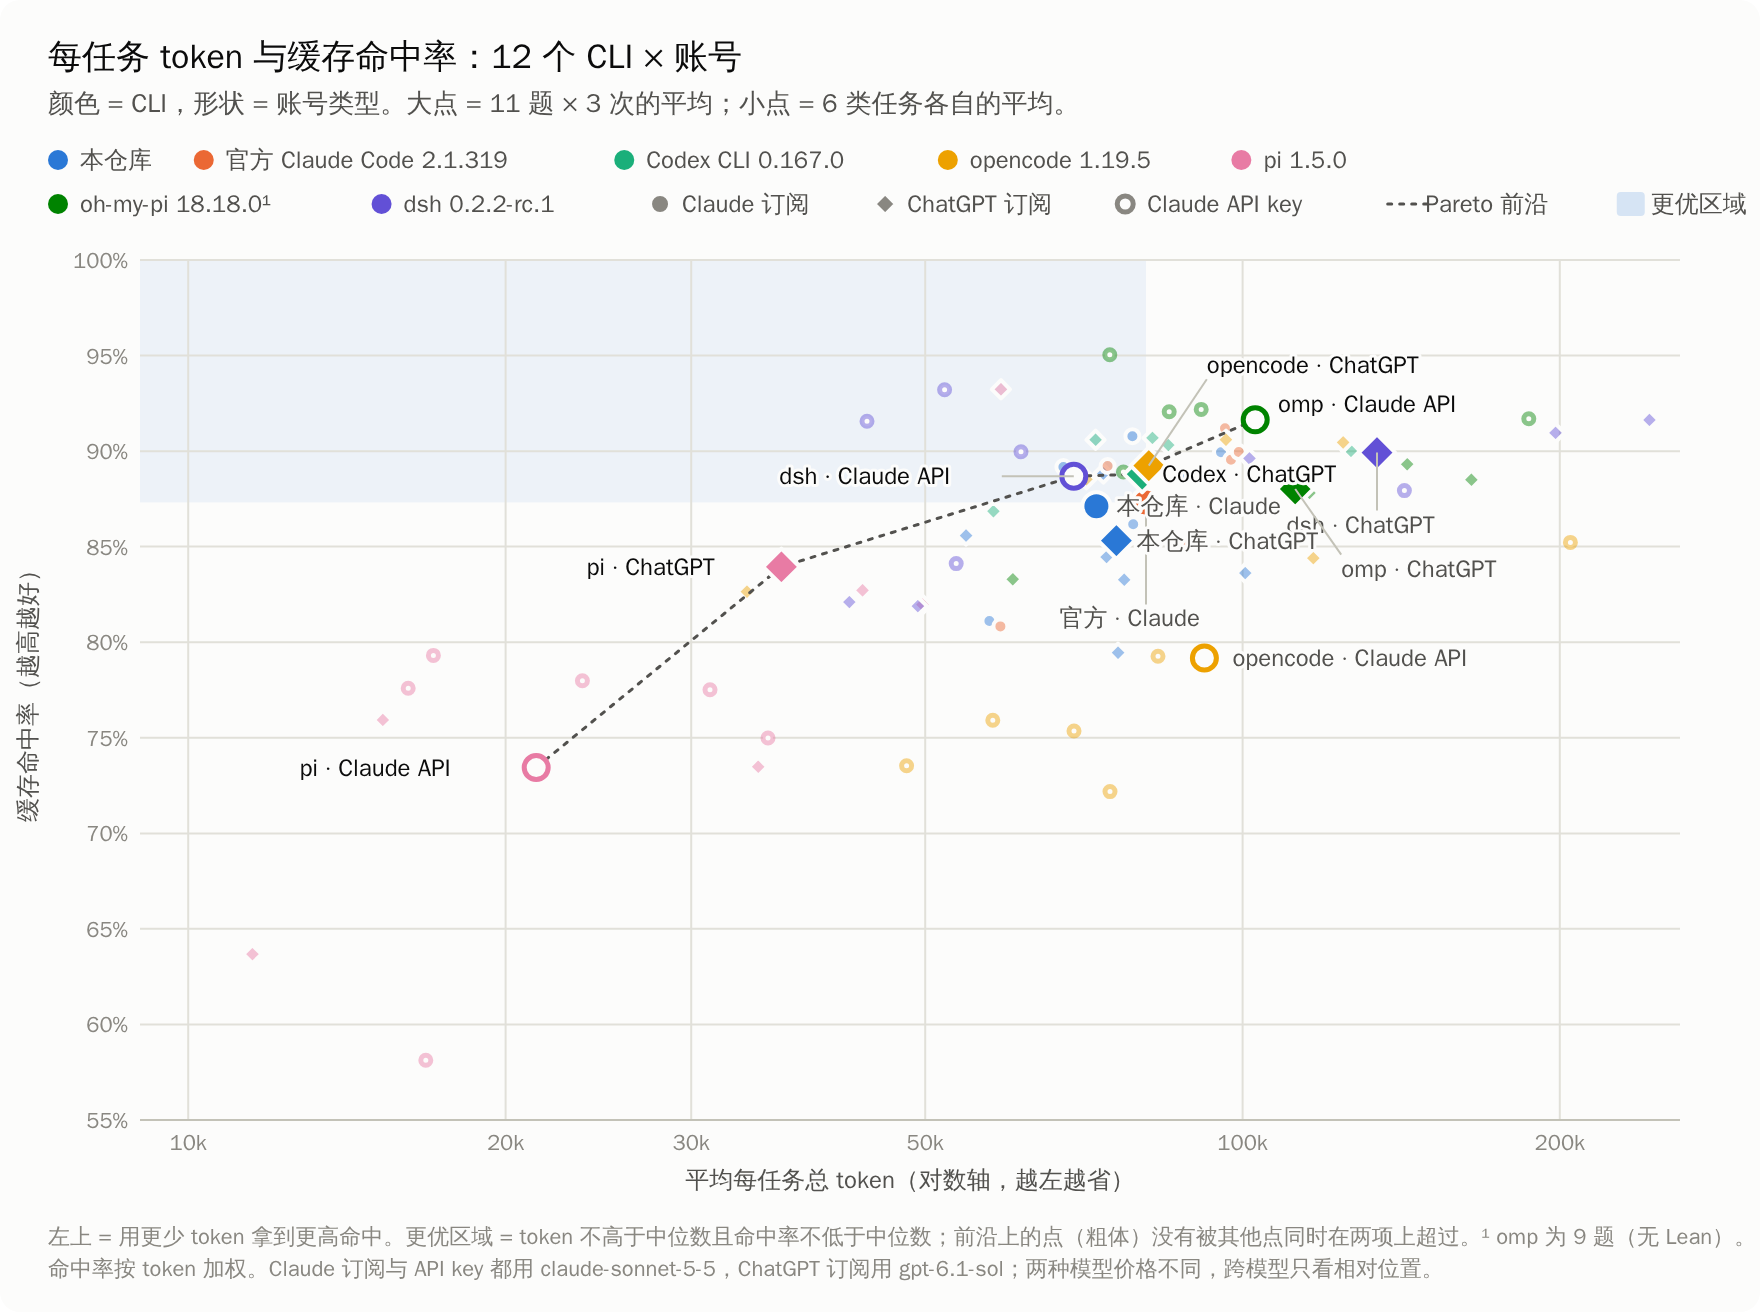
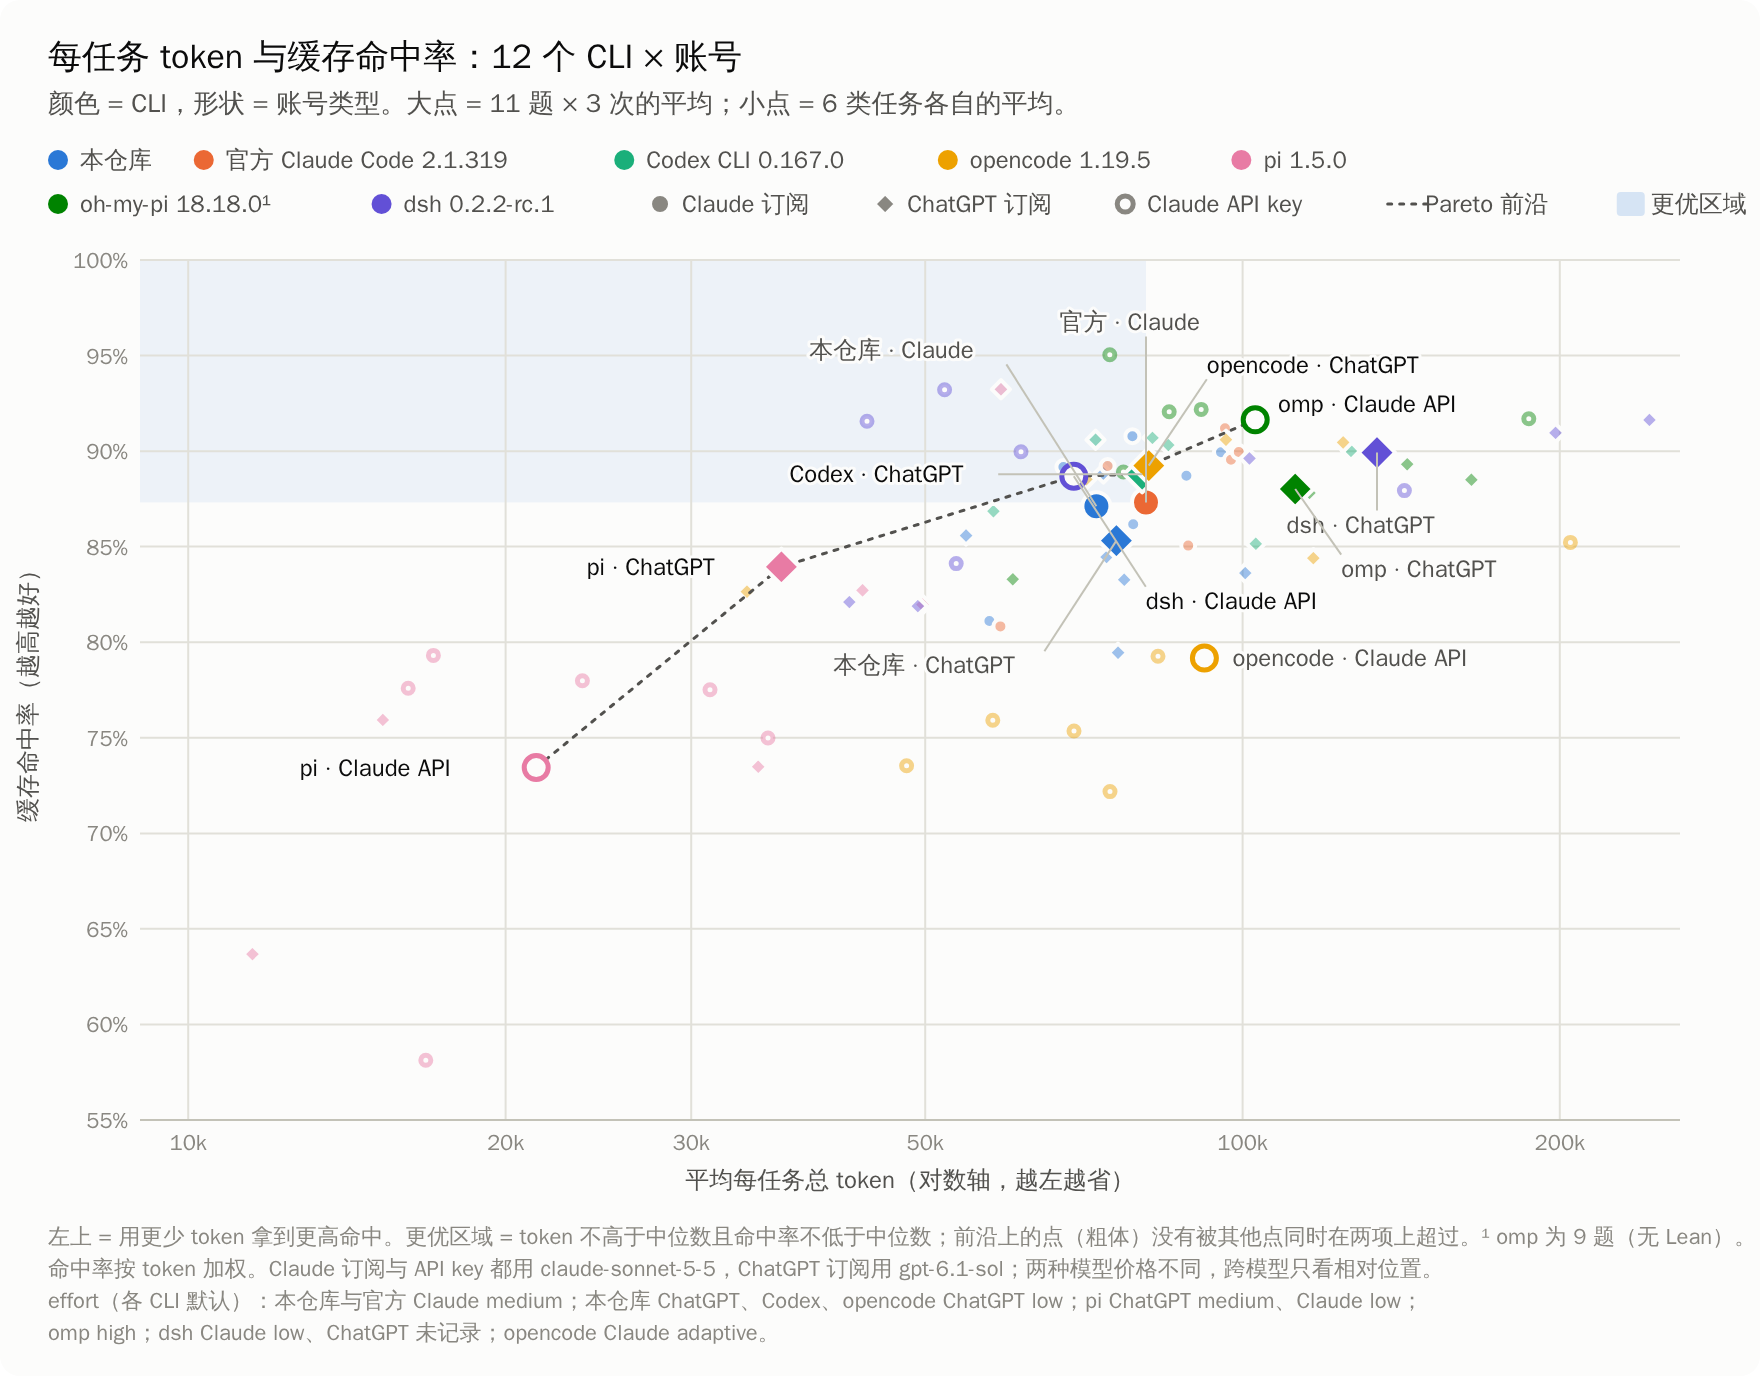
docs: add cost-per-task vs cache-hit chart with model and effort per cell

diff --git a/docs/features/cache-benchmark.md b/docs/features/cache-benchmark.md
@@ -32,16 +32,16 @@
 
 ### 对象
 
-| CLI | 版本 | 账号 / 模型 | effort |
+| CLI | 版本 | 账号 / 模型 | effort（请求实际携带） |
 | --- | --- | --- | --- |
-| 本仓库 · Claude 账号 | `dev` `453b1c6` | Claude OAuth · `claude-sonnet-5-5` | 默认 |
-| 官方 Claude Code | 2.1.319 | Claude OAuth · `claude-sonnet-5-5` | 默认 |
+| 本仓库 · Claude 账号 | `dev` `453b1c6` | Claude OAuth · `claude-sonnet-5-5` | 默认 medium |
+| 官方 Claude Code | 2.1.319 | Claude OAuth · `claude-sonnet-5-5` | 默认 medium |
 | 本仓库 · ChatGPT 账号 | `dev` `453b1c6` | ChatGPT OAuth · `gpt-6.1-sol` | 账号默认 low |
 | Codex CLI | 0.167.0 | ChatGPT OAuth · `gpt-6.1-sol` | 账号默认 low |
-| opencode | 1.19.5 | ChatGPT OAuth · `gpt-6.1-sol` | 默认 |
-| pi | 1.5.0（`@earendil-works/pi-coding-agent`） | ChatGPT OAuth · `gpt-6.1-sol` | 默认 |
+| opencode | 1.19.5 | ChatGPT OAuth · `gpt-6.1-sol` / Claude API key · `claude-sonnet-5-5` | 默认 low / adaptive |
+| pi | 1.5.0（`@earendil-works/pi-coding-agent`） | ChatGPT OAuth · `gpt-6.1-sol` / Claude API key · `claude-sonnet-5-5` | 默认 medium / low |
 | oh-my-pi（`omp`） | 18.18.0（`@oh-my-pi/pi-coding-agent`） | ChatGPT OAuth · `gpt-6.1-sol` / Claude API key · `claude-sonnet-5-5` | 默认 high |
-| dsh（DeepSeek Harness） | 0.2.2-rc.1（`@deepseek-ai/dsh`，headless） | ChatGPT OAuth · `gpt-6.1-sol` / Claude API key · `claude-sonnet-5-5` | 默认（Claude 侧 low） |
+| dsh（DeepSeek Harness） | 0.2.2-rc.1（`@deepseek-ai/dsh`，headless） | ChatGPT OAuth · `gpt-6.1-sol` / Claude API key · `claude-sonnet-5-5` | 默认（Claude 侧 low，ChatGPT 侧请求不带 effort） |
 
 pi 与 opencode 另用 Claude API key 跑了一组 `claude-sonnet-5-5`（见第 1、4–6 节）；表中未注明时 pi、opencode 均指 ChatGPT 账号。oh-my-pi 只出现在第 9 节，ssh / k8s 运维排障题见第 10 节，dsh 只出现在第 11 节。
 
@@ -102,7 +102,7 @@ pi 与 opencode 另用 Claude API key 跑了一组 `claude-sonnet-5-5`（见第 
 
 ### 0. token 与命中率总览
 
-横轴是每任务平均总 token（对数轴，越左越省），纵轴是按 token 加权的缓存命中率（越高越好），左上角最好。只看命中率会奖励把大段前缀放进缓存的做法，只看 token 又看不出缓存帮了多少，两项放在一起才能看出谁在「少用」和「多复用」上都占优。两种模型的价格表不同，所以横轴用 token，不用花费；API 等价花费见第 1 节表格。
+横轴是每任务平均总 token（对数轴，越左越省），纵轴是按 token 加权的缓存命中率（越高越好），左上角最好。只看命中率会奖励把大段前缀放进缓存的做法，只看 token 又看不出缓存帮了多少，两项放在一起才能看出谁在「少用」和「多复用」上都占优。第二张图把横轴换成 API 等价花费，把缓存读、缓存写和输出的不同价格算进去。[交互版](https://claude.ai/artifact/5c7HFWBN11ZAVcFHConfbm)可切换横轴，悬停查看每个点的明细。
 
 颜色区分 CLI，形状区分账号类型：实心圆 = Claude 订阅（OAuth），菱形 = ChatGPT 订阅（OAuth），空心圆 = Claude API key。Claude 订阅与 API key 都用 `claude-sonnet-5-5`，ChatGPT 订阅用 `gpt-6.1-sol`。每个大点 = 11 题 × 3 次；oh-my-pi 为 9 题（无 Lean），dsh ChatGPT 账号 32 次（1 次 WebSocket 断线未计入）。
 
@@ -112,6 +112,32 @@ pi 与 opencode 另用 Claude API key 跑了一组 `claude-sonnet-5-5`（见第 
 - 前沿上的 6 个点：pi（Claude API）21k / 73.4%、pi（ChatGPT）37k / 84.0%、dsh（Claude API）69k / 88.7%、Codex 80k / 88.8%、opencode（ChatGPT）82k / 89.2%、oh-my-pi（Claude API）103k / 91.6%。
 - 更优区域（token 不高于中位数 81k 且命中率不低于中位数 87.3%）里是 dsh（Claude API）、Codex 和官方。本仓库 Claude 账号 73k / 87.1% 在区域边缘，与官方相差 0.2 个百分点，在噪声范围内。
 - pi 的提示只有约 2.7k，token 最少但新内容占比大，命中率最低；opencode 在 Claude API key 下 92k / 79.2%，两项都落后于同模型的其他 CLI。
+
+![每任务 API 等价花费与缓存命中率：12 个 CLI × 账号组合的散点，含 6 类任务的分项点、Pareto 前沿与更优区域](images/cache-benchmark/cost-vs-hit-light.png#gh-light-mode-only)
+![每任务 API 等价花费与缓存命中率：12 个 CLI × 账号组合的散点，含 6 类任务的分项点、Pareto 前沿与更优区域](images/cache-benchmark/cost-vs-hit-dark.png#gh-dark-mode-only)
+
+花费的计法：所有账号都按同一张公开 API 价目表换算每次 run 的 usage（价格见「口径」），再取平均。ChatGPT 订阅（OAuth）用 `gpt-6.1-sol` 的 OpenAI 价；Claude API key 用 `claude-sonnet-5-5` 的 Anthropic 价，缓存写按各 CLI 实际写入的档位计（本仓库与官方 1 小时，其他 CLI 5 分钟）；本仓库与官方的 Claude 订阅（OAuth）也按同一张 Anthropic 价目表换算。两种订阅本身是包月，实际账单不按 token 计，这里的金额只用于横向比较。两种模型价格不同，跨模型（Claude 侧对 ChatGPT 侧）只看相对位置。
+
+| CLI | 账号 | 模型 | effort | 平均总 token | 命中率 | API 等价花费 / 任务 |
+| --- | --- | --- | --- | --- | --- | --- |
+| 本仓库 | Claude 订阅 | `claude-sonnet-5-5` | medium（默认） | 72.7k | 87.1% | $0.078 |
+| 官方 Claude Code 2.1.319 | Claude 订阅 | `claude-sonnet-5-5` | medium（默认） | 81.0k | 87.3% | $0.088 |
+| dsh 0.2.2-rc.1 | Claude API key | `claude-sonnet-5-5` | low（默认） | 69.2k | 88.7% | $0.083 |
+| oh-my-pi 18.18.0¹ | Claude API key | `claude-sonnet-5-5` | high（默认） | 102.8k | 91.6% | $0.099 |
+| opencode 1.19.5 | Claude API key | `claude-sonnet-5-5` | adaptive（默认） | 92.0k | 79.2% | $0.119 |
+| pi 1.5.0 | Claude API key | `claude-sonnet-5-5` | low（默认） | 21.4k | 73.4% | $0.045 |
+| 本仓库 | ChatGPT 订阅 | `gpt-6.1-sol` | low（账号默认） | 75.9k | 85.3% | $0.050 |
+| Codex CLI 0.167.0 | ChatGPT 订阅 | `gpt-6.1-sol` | low（账号默认） | 80.3k | 88.8% | $0.047 |
+| opencode 1.19.5 | ChatGPT 订阅 | `gpt-6.1-sol` | low（默认） | 81.5k | 89.2% | $0.059 |
+| pi 1.5.0 | ChatGPT 订阅 | `gpt-6.1-sol` | medium（默认） | 36.5k | 84.0% | $0.041 |
+| dsh 0.2.2-rc.1 | ChatGPT 订阅 | `gpt-6.1-sol` | 未记录（pi-ai 默认） | 134.2k | 89.9% | $0.073 |
+| oh-my-pi 18.18.0¹ | ChatGPT 订阅 | `gpt-6.1-sol` | high（默认） | 112.2k | 88.0% | $0.087 |
+
+¹ 9 题（无 Lean）。effort 取代理日志里请求实际携带的值；dsh 的 ChatGPT 请求没有带 effort 字段。dsh ChatGPT 账号只计成功的 32 次 run；第 11 节的平均把失败那次（约 5k token）也算进 33 次，所以那里是 130.2k / 89.8%。
+
+- Claude 侧本仓库 $0.078，比官方 $0.088 低 12%，也低于 dsh $0.083、oh-my-pi $0.099、opencode $0.119；只有 pi $0.045 更低，因为它的提示只有约 2.7k、effort low。
+- ChatGPT 侧缓存读只收输入价的 1/20，各 CLI 差距被压小：pi $0.041、Codex $0.047、本仓库 $0.050、opencode $0.059、dsh $0.073、oh-my-pi $0.087。本仓库比 Codex 贵 6%，差在新会话第一个请求的未缓存部分（6.3k 对 2.7k）。
+- 前沿：pi（ChatGPT）$0.041 / 84.0%、Codex $0.047 / 88.8%、opencode（ChatGPT）$0.059 / 89.2%、dsh（ChatGPT）$0.073 / 89.9%、oh-my-pi（Claude API）$0.099 / 91.6%。更优区域（花费不高于中位数 $0.075 且命中率不低于中位数 87.7%）里是 Codex、opencode 与 dsh 的 ChatGPT 账号；Claude 侧的点都在中位数右边，是两种模型价目不同造成的。
 
 ![按任务类型：每类一个面板的 token 与命中率散点](images/cache-benchmark/tokens-vs-hit-by-type-light.png#gh-light-mode-only)
 ![按任务类型：每类一个面板的 token 与命中率散点](images/cache-benchmark/tokens-vs-hit-by-type-dark.png#gh-dark-mode-only)
@@ -386,9 +412,9 @@ dsh 0.2.2-rc.1 用 headless 模式（`dsh --profile headless --json`），模型
 | pi 1.5.0（同时段） | Claude API key | 33/33 | 77.0%（33–89） | 26.0k（9–84k） | 3.2k | 2.7k | 25s | 4.6 | $0.049 |
 | 本仓库 | Claude 账号 | 33/33 | 87.1%（49–93） | 72.7k（32–149k） | 3.0k | 15.5k | 26s | 4.0 | $0.078 |
 | 官方 Claude Code 2.1.319 | Claude 账号 | 33/33 | 87.3%（77–94） | 81.0k（36–159k） | 3.5k | 17.1k | 30s | 4.0 | $0.088 |
-| dsh 0.2.2-rc.1 | ChatGPT 账号 | 32/33 | 89.8%（0–96） | 130.2k（5–723k） | 3.4k | 4.1k | 72s | 15.3 | — |
-| 本仓库 | ChatGPT 账号 | 33/33 | 85.3%（50–93） | 75.9k（44–151k） | 2.2k | 10.4k | 61s | 5.6 | — |
-| Codex CLI 0.167.0 | ChatGPT 账号 | 33/33 | 88.8%（79–96） | 80.3k（39–165k） | 2.2k | 14.6k | 59s | 4.8 | — |
+| dsh 0.2.2-rc.1 | ChatGPT 账号 | 32/33 | 89.8%（0–96） | 130.2k（5–723k） | 3.4k | 4.1k | 72s | 15.3 | $0.073 |
+| 本仓库 | ChatGPT 账号 | 33/33 | 85.3%（50–93） | 75.9k（44–151k） | 2.2k | 10.4k | 61s | 5.6 | $0.050 |
+| Codex CLI 0.167.0 | ChatGPT 账号 | 33/33 | 88.8%（79–96） | 80.3k（39–165k） | 2.2k | 14.6k | 59s | 4.8 | $0.047 |
 
 - dsh 首个 prompt 比本仓库小一半（Claude 侧 8.1k 对 15.5k），短任务因此省 token；但请求数多（ChatGPT 侧 15.3 对 5.6），长任务 ChatGPT 侧平均 220.8k，是本仓库的 2.3 倍，`doc-l`、`longcode` 单次最高 723k。
 - 唯一失败：ChatGPT 侧一次第一个请求遇到 `WebSocket closed 1006`，dsh 不重试直接结束。

diff --git a/docs/features/README.md b/docs/features/README.md
@@ -14,6 +14,11 @@
 ![每任务 token 与缓存命中率的散点](images/cache-benchmark/tokens-vs-hit-light.png#gh-light-mode-only)
 ![每任务 token 与缓存命中率的散点](images/cache-benchmark/tokens-vs-hit-dark.png#gh-dark-mode-only)
 
+![每任务 API 等价花费与缓存命中率的散点](images/cache-benchmark/cost-vs-hit-light.png#gh-light-mode-only)
+![每任务 API 等价花费与缓存命中率的散点](images/cache-benchmark/cost-vs-hit-dark.png#gh-dark-mode-only)
+
+可切换横轴、悬停查看明细的[交互版散点图](https://claude.ai/artifact/5c7HFWBN11ZAVcFHConfbm)。
+
 | CLI | 命中率（33 次） | 平均总 token | API 等价花费 / 任务 | TUI 6 轮总 token | `-p` 启动到首个请求 |
 | --- | --- | --- | --- | --- | --- |
 | 本仓库（Claude 账号） | 87.1% | 72.7k | $0.078 | 235k | 0.82s |
